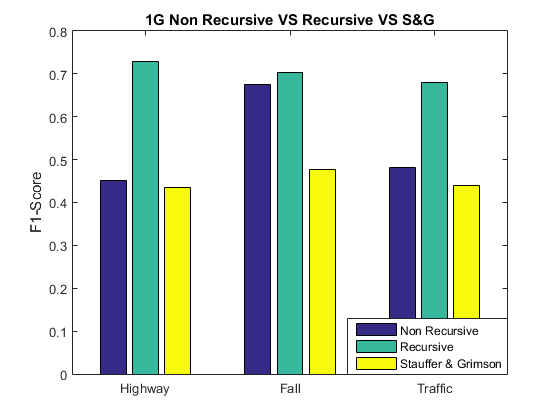
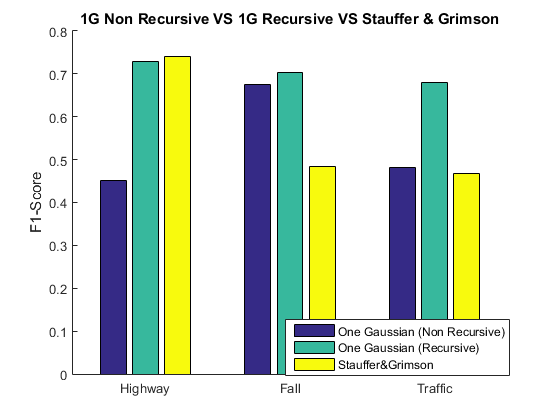
S&G parameter optimization.

diff --git a/block2/src/task6.m b/block2/src/task6.m
@@ -21,10 +21,15 @@ maxGaussians = 6;
 f1Scores = zeros(length(minGaussians:maxGaussians), 3);
 count = 1;
 addpath('../../evaluation');
-for nGaussians = minGaussians:maxGaussians
+nGaussians = 3;
+minTh = 3; stepTh = 1; maxTh = 6;
+thList = minTh:stepTh:maxTh;
+for th = thList
     
     % Highway
-    staufferGrimsonMultipleGaussian( highway , pathHighwayInput , fileFormat , pathHighwayResults , nGaussians);
+    bkgRatio = 0.5;
+    lrRate = 0.008;
+    staufferGrimsonMultipleGaussian( highway , pathHighwayInput , fileFormat , pathHighwayResults , nGaussians , bkgRatio, lrRate);
     
     % Evaluate
     [ tp , fp , fn , tn , ~ , ~ ] =  ...
@@ -33,7 +38,9 @@ for nGaussians = minGaussians:maxGaussians
     f1Scores(count,1) = mean(f1ScoreAux);
     
     % Fall
-    staufferGrimsonMultipleGaussian( fall , pathFallInput , fileFormat , pathFallResults , nGaussians);
+    bkgRatio = 0.8;
+    lrRate = 0.012;
+    staufferGrimsonMultipleGaussian( fall , pathFallInput , fileFormat , pathFallResults , nGaussians , bkgRatio, lrRate);
     
     % Evaluate
     [ tp , fp , fn , tn , ~ , ~ ] =  ...
@@ -43,7 +50,9 @@ for nGaussians = minGaussians:maxGaussians
     f1Scores(count,2) = mean(f1ScoreAux);
     
     % Traffic
-    staufferGrimsonMultipleGaussian( traffic , pathTrafficInput , fileFormat , pathTrafficResults , nGaussians);
+    bkgRatio = 0.7;
+    lrRate = 0.016;
+    staufferGrimsonMultipleGaussian( traffic , pathTrafficInput , fileFormat , pathTrafficResults , nGaussians , bkgRatio, lrRate);
     
     % Evaluate
     [ tp , fp , fn , tn , ~ , ~ ] =  ...
@@ -59,12 +68,19 @@ colorList = [ 'b', 'g', 'm'];
 fig = figure('Visible','off', 'PaperUnits', 'centimeters', 'PaperPosition', [0 0 12.5 10.5]); 
 hold on;
 for i=1:size(f1Scores,2)
-   plot(minGaussians:maxGaussians, f1Scores(:,i), colorList(i)); 
+   plot(minTh:stepTh:maxTh, f1Scores(:,i), colorList(i)); 
 end
 title('F1Score evolution along number of Gaussians', 'FontWeight', 'Bold');
 xlabel('Number of Gaussians'); ylabel('F1-Score');
 legend({'Highway', 'Fall', 'Traffic'});
 print(fig,[ figuresFolder 'Task6_f1score' ],'-dpng')
+
+[f1, ind] = max(f1Scores(:,1)); bestTh = thList(ind); 
+fprintf('Best Number of Gaussians = %f for Highway (F1-score = %f)\n', bestTh, f1);
+[f1, ind] = max(f1Scores(:,2)); bestTh = thList(ind); 
+fprintf('Best Number of Gaussians = %f for Fall (F1-score = %f)\n', bestTh, f1);
+[f1, ind] = max(f1Scores(:,3)); bestTh = thList(ind); 
+fprintf('Best Number of Gaussians = %f for Traffic (F1-score = %f)\n', bestTh, f1);
 
 % Plot one gaussian VS S&G (F1-Score) group of bars
 bestF1ScoresSG = [max(f1Scores(:,1)); max(f1Scores(:,2)); max(f1Scores(:,3))];

diff --git a/block2/src/staufferGrimsonMultipleGaussian.m b/block2/src/staufferGrimsonMultipleGaussian.m
@@ -1,4 +1,4 @@
-function staufferGrimsonMultipleGaussian( sequence , folderPath , fileFormat , pathResults , nGaussians , verbose )
+function staufferGrimsonMultipleGaussian( sequence , folderPath , fileFormat , pathResults , nGaussians , bkgRatio, lrRate, verbose )
 % staufferGrimsonMultipleGaussian: uses the Stauffer & Grimson Multiple
 % Gaussian approach to segment a video frame between background and
 % foreground.
@@ -12,7 +12,8 @@ function staufferGrimsonMultipleGaussian( sequence , folderPath , fileFormat , p
     
     % Initialize the model
     detector = vision.ForegroundDetector('NumTrainingFrames',floor(length(sequence)/2), ...
-                                        'NumGaussians', nGaussians, 'LearningRate', 0.005);
+                                        'NumGaussians', nGaussians, 'LearningRate', lrRate, ...
+                                        'MinimumBackgroundRatio', bkgRatio);
     
     % First 50% of the test sequence to train the model
     for i = 1:floor(length(sequence)/2)
